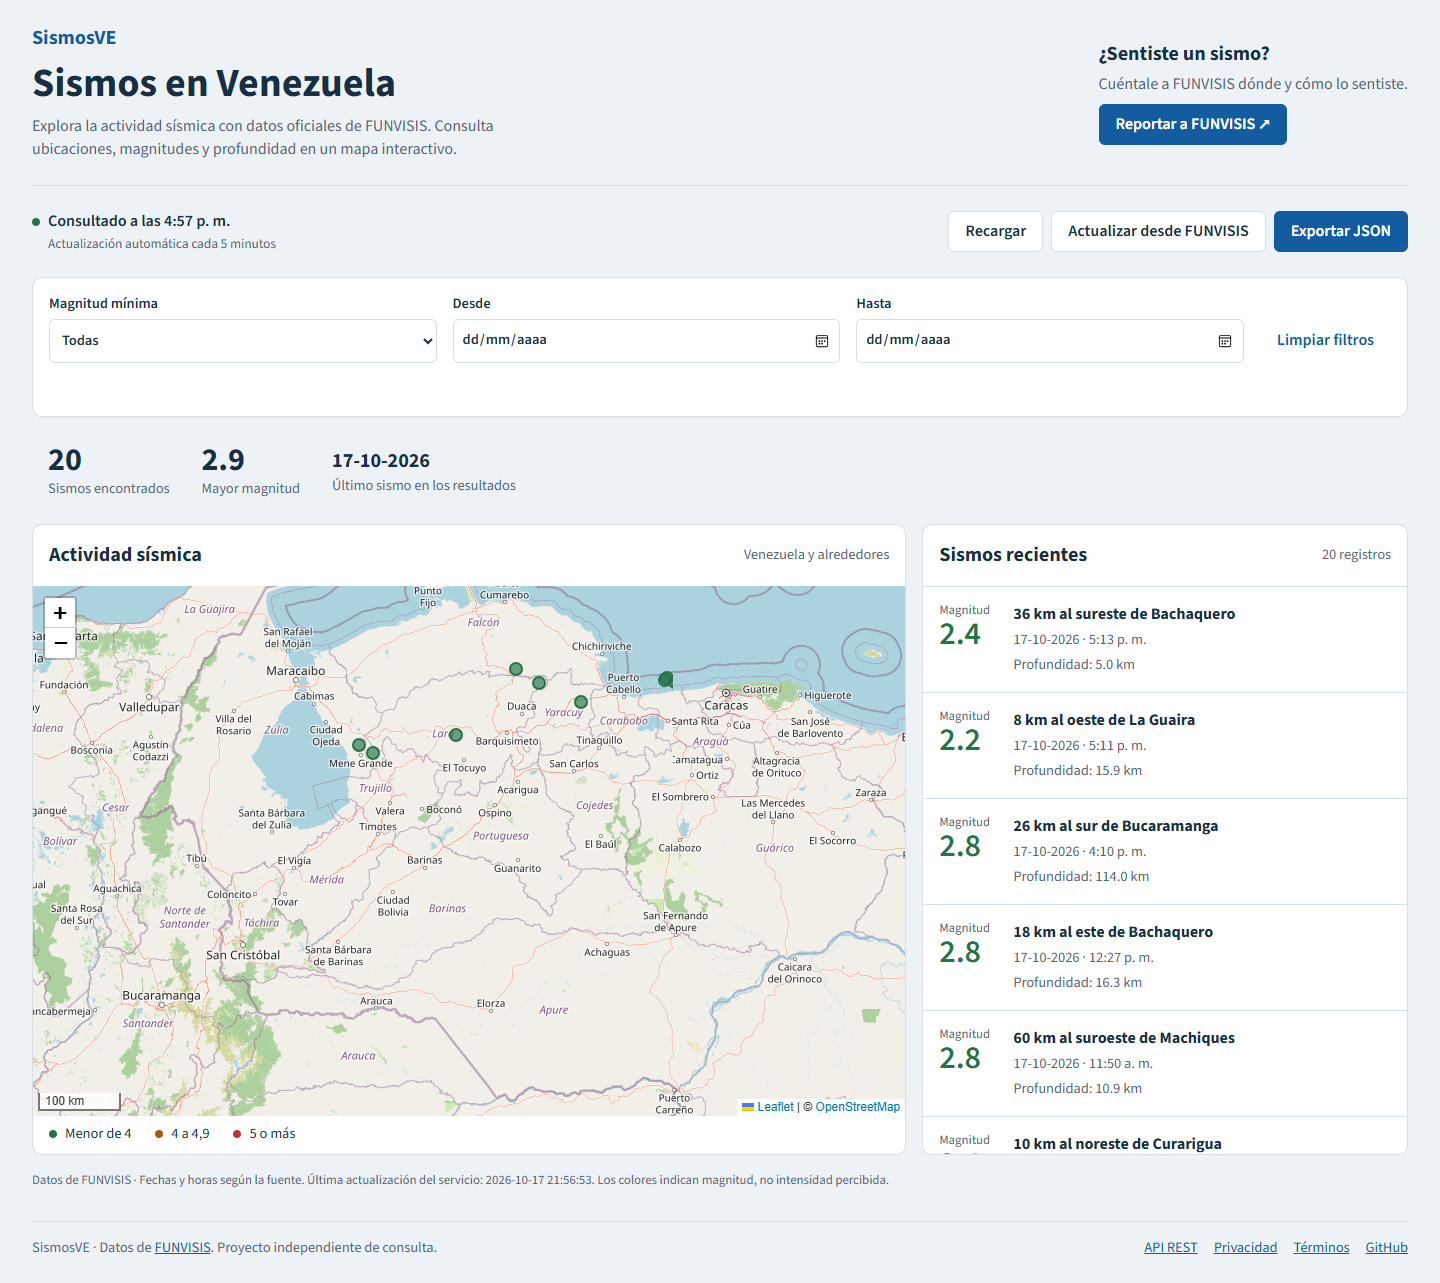
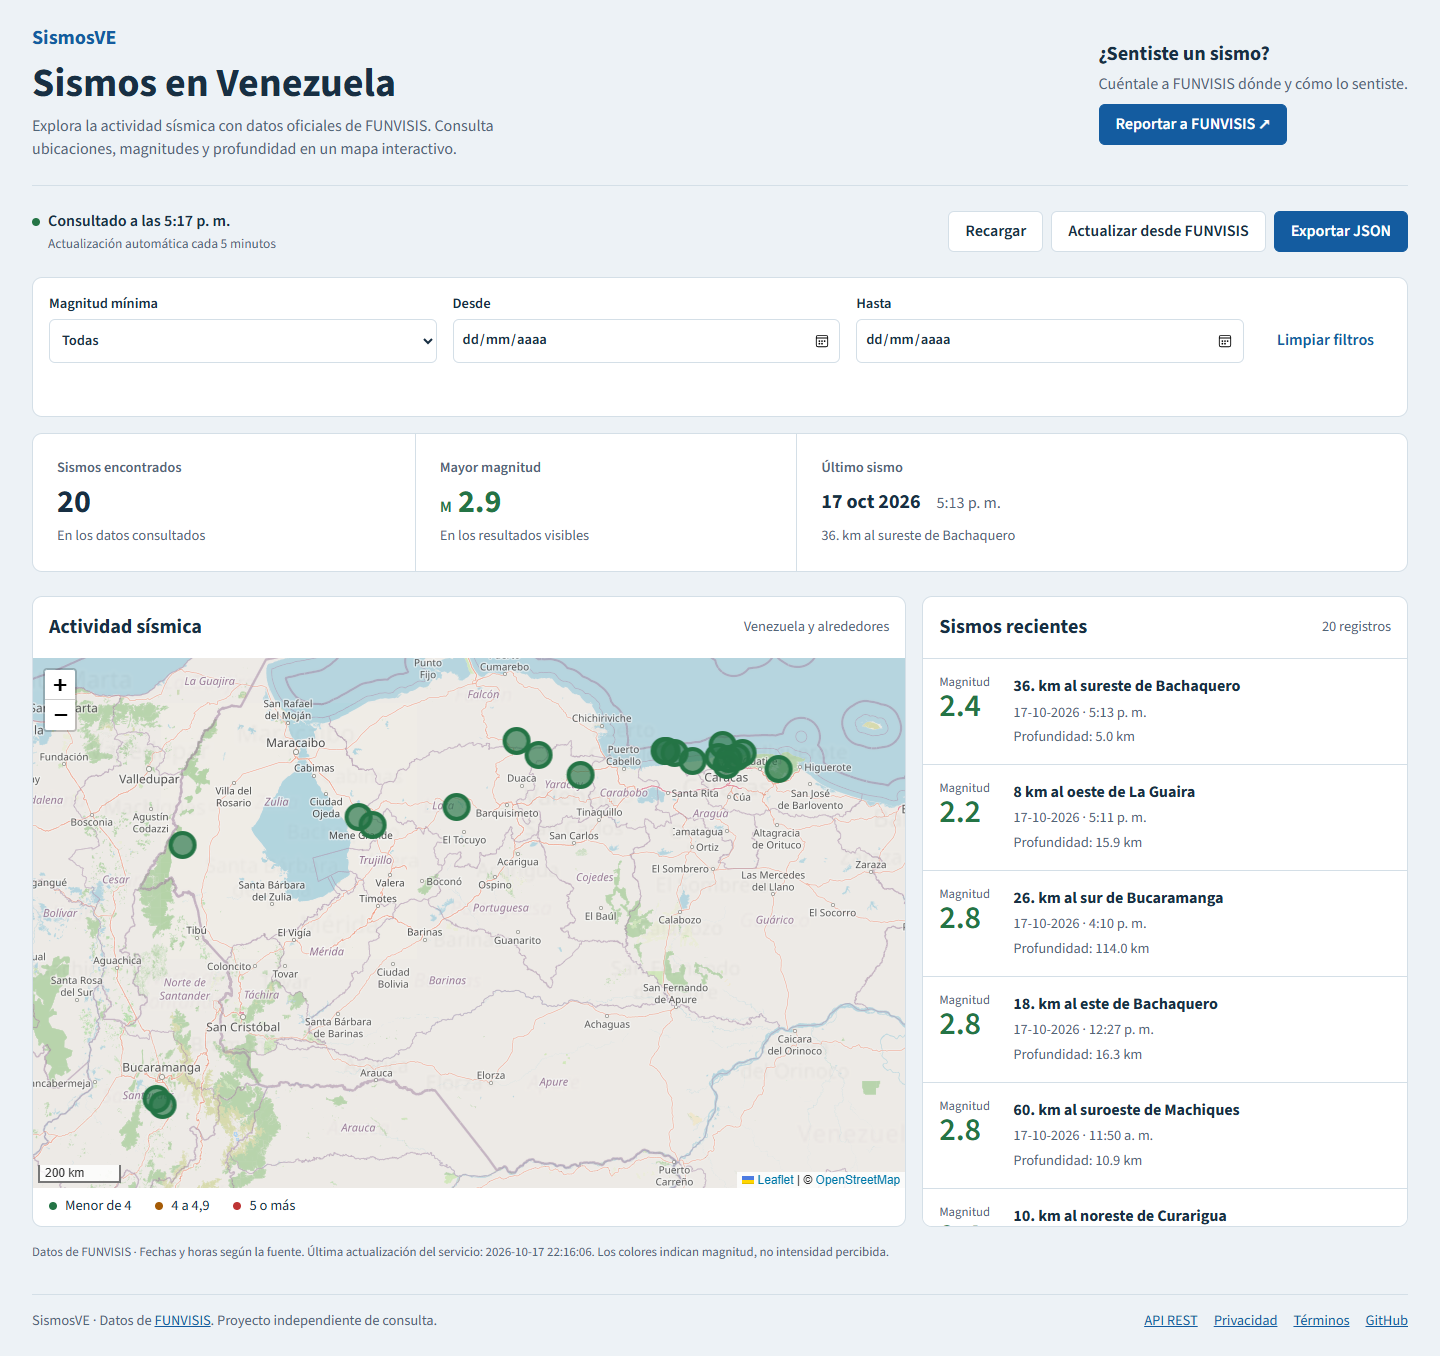
style: clarify results summary and latest earthquake details

diff --git a/frontend/src/styles.css b/frontend/src/styles.css
@@ -36,11 +36,20 @@ input:hover, select:hover { border-color: var(--color-ink-2); }
 input[aria-invalid="true"] { border-color: var(--color-high); background: var(--color-error-bg); }
 .filters button { min-height: 44px; }
 .text-button { border-color: transparent; color: var(--color-accent); }
-.summary { display: flex; gap: var(--space-xl); padding: var(--space-lg) var(--space-md); }
-.summary > div { display: grid; }
-.summary strong { font-size: var(--text-xl); line-height: 1.2; font-variant-numeric: tabular-nums; }
-.summary span { color: var(--color-ink-2); font-size: var(--text-sm); }
-.summary .last-event strong { font-size: var(--text-lg); margin-top: var(--space-sm); }
+.results-summary { margin-block: var(--space-md) var(--space-lg); border: var(--rule-width) solid var(--color-rule); border-radius: var(--radius-panel); background: var(--color-paper); }
+.summary-metrics { display: grid; grid-template-columns: minmax(0, 1fr) minmax(0, 1fr) minmax(0, 1.6fr); margin: 0; }
+.summary-metric { display: grid; grid-template-rows: auto 1fr auto; min-width: 0; gap: var(--space-xs); padding: var(--space-lg); }
+.summary-metric + .summary-metric { border-left: var(--rule-width) solid var(--color-rule); }
+.summary-metric dt { font-size: var(--text-sm); font-weight: 600; color: var(--color-ink-2); }
+.summary-metric dd { margin: 0; }
+.summary-value { font-size: var(--text-xl); font-weight: 700; line-height: 1.25; font-variant-numeric: tabular-nums; }
+.summary-unit { font-size: var(--text-md); font-weight: 600; }
+.summary-context { color: var(--color-ink-2); font-size: var(--text-sm); }
+.summary-date { display: flex; align-items: center; font-size: var(--text-lg); }
+.summary-date time { display: flex; align-items: baseline; flex-wrap: wrap; column-gap: var(--space-md); }
+.summary-hour { font-size: var(--text-md); font-weight: 400; color: var(--color-ink-2); white-space: nowrap; }
+.summary-location { overflow-wrap: anywhere; }
+.visually-hidden { position: absolute; width: 1px; height: 1px; padding: 0; margin: -1px; overflow: hidden; clip-path: inset(50%); white-space: nowrap; border: 0; }
 .workspace { display: grid; grid-template-columns: minmax(0, 1.8fr) minmax(300px, 1fr); gap: var(--space-md); }
 .map-panel, .event-panel { background: var(--color-paper); border: var(--rule-width) solid var(--color-rule); border-radius: var(--radius-panel); overflow: clip; min-width: 0; }
 .map-heading, .list-heading { display: flex; align-items: center; justify-content: space-between; gap: var(--space-sm); padding: var(--space-md); }
@@ -66,5 +75,6 @@ input[aria-invalid="true"] { border-color: var(--color-high); background: var(--
 .site-footer nav { display: flex; flex-wrap: wrap; gap: var(--space-md); }.site-footer a { white-space: nowrap; }
 .skip-link { position: absolute; top: -100px; }.skip-link:focus { top: 0; background: var(--color-paper); padding: var(--space-md); z-index: 2000; }
 @media (max-width: 900px) { .shell { padding: var(--space-md); }.site-header { align-items: start; }.report { max-width: 290px; flex-shrink: 1; }.workspace { grid-template-columns: minmax(0, 1fr); }.map-canvas { height: 420px; }.event-list { height: 460px; } }
-@media (max-width: 600px) { .site-header { flex-direction: column; gap: var(--space-lg); }.report { max-width: none; }.map-heading { align-items: start; flex-direction: column; }.map-canvas { height: 340px; }.summary { gap: var(--space-md); padding-inline: 0; flex-wrap: wrap; }.summary strong { font-size: var(--text-lg); }.actions { width: 100%; }.actions button { font-size: var(--text-sm); padding-inline: var(--space-sm); }.error-banner { align-items: start; flex-direction: column; }.filters label { min-width: 120px; }.filters label:first-child { flex-basis: 100%; } }
+@media (max-width: 768px) { .summary-metric { padding: var(--space-md); }.summary-metrics { grid-template-columns: repeat(2, minmax(0, 1fr)); }.summary-metric.summary-latest { grid-column: 1 / -1; border-left: 0; border-top: var(--rule-width) solid var(--color-rule); } }
+@media (max-width: 600px) { .site-header { flex-direction: column; gap: var(--space-lg); }.report { max-width: none; }.map-heading { align-items: start; flex-direction: column; }.map-canvas { height: 340px; }.actions { width: 100%; }.actions button { font-size: var(--text-sm); padding-inline: var(--space-sm); }.error-banner { align-items: start; flex-direction: column; }.filters label { min-width: 120px; }.filters label:first-child { flex-basis: 100%; } }
 @media (prefers-reduced-motion: reduce) { *, *::before, *::after { scroll-behavior: auto !important; transition: none !important; animation: none !important; } }

diff --git a/frontend/src/Summary.svelte b/frontend/src/Summary.svelte
@@ -1,0 +1,62 @@
+<script lang="ts">
+  import { formatTime, magnitudeClass, type Earthquake } from './data';
+
+  let { events, total, filtered, loading, invalid, failed }: {
+    events: Earthquake[];
+    total: number | null;
+    filtered: boolean;
+    loading: boolean;
+    invalid: boolean;
+    failed: boolean;
+  } = $props();
+
+  const ready = $derived(total !== null && !invalid);
+  const latest = $derived(ready ? events[0] : undefined);
+  const maximum = $derived(events.reduce((max, event) =>
+    Number.isFinite(event.magnitude) ? Math.max(max, event.magnitude) : max, -Infinity));
+  const hasMagnitude = $derived(ready && Number.isFinite(maximum));
+  const unavailable = $derived(invalid ? 'Revisa el rango de fechas' :
+    loading && total === null ? 'Consultando registros…' :
+    total === null ? 'Datos no disponibles' : 'Sin resultados');
+  const countContext = $derived(!ready ? unavailable : failed ? 'Últimos datos disponibles' :
+    filtered ? `de ${total} registros consultados` : 'En los datos consultados');
+
+  function readableDate(date: string) {
+    const [day, month, year] = date.split('-');
+    const months = ['ene', 'feb', 'mar', 'abr', 'may', 'jun', 'jul', 'ago', 'sep', 'oct', 'nov', 'dic'];
+    return months[Number(month) - 1] ? `${Number(day)} ${months[Number(month) - 1]} ${year}` : date;
+  }
+</script>
+
+<section class="results-summary" aria-label="Resumen de resultados" aria-busy={loading}>
+  <dl class="summary-metrics">
+    <div class="summary-metric">
+      <dt>Sismos encontrados</dt>
+      <dd class="summary-value">{ready ? events.length : '—'}</dd>
+      <dd class="summary-context" aria-live="polite" aria-atomic="true">
+        {#if ready}<span class="visually-hidden">{events.length} sismos encontrados. </span>{/if}{countContext}
+      </dd>
+    </div>
+    <div class="summary-metric">
+      <dt>Mayor magnitud</dt>
+      <dd class="summary-value" class:low={hasMagnitude && magnitudeClass(maximum) === 'low'} class:medium={hasMagnitude && magnitudeClass(maximum) === 'medium'} class:high={hasMagnitude && magnitudeClass(maximum) === 'high'}>
+        {#if hasMagnitude}<span class="summary-unit" aria-hidden="true">M</span> {maximum.toFixed(1)}{:else}—{/if}
+      </dd>
+      <dd class="summary-context">{hasMagnitude ? 'En los resultados visibles' : unavailable}</dd>
+    </div>
+    <div class="summary-metric summary-latest">
+      <dt>Último sismo</dt>
+      <dd class="summary-value summary-date">
+        {#if latest}
+          <time datetime={`${latest.date}T${latest.feature.properties.time}`}>
+            <span>{readableDate(latest.feature.properties.date)}</span>
+            <span class="summary-hour">{formatTime(latest.feature.properties.time)}</span>
+          </time>
+        {:else}—{/if}
+      </dd>
+      <dd class="summary-context summary-location" title={latest?.feature.properties.addressFormatted}>
+        {latest ? latest.feature.properties.addressFormatted : unavailable}
+      </dd>
+    </div>
+  </dl>
+</section>

diff --git a/frontend/src/App.svelte b/frontend/src/App.svelte
@@ -3,6 +3,7 @@
   import MapView from './Map.svelte';
   import FiltersView from './Filters.svelte';
   import EventList from './EventList.svelte';
+  import Summary from './Summary.svelte';
   import { normalize, filterEvents, request, type Collection, type Earthquake, type Filters } from './data';
   let events = $state<Earthquake[]>([]);
   let collection = $state<Collection | null>(null);
@@ -15,7 +16,6 @@
   let controller: AbortController | undefined;
   const invalid = $derived(Boolean(filters.start && filters.end && filters.start > filters.end));
   const visible = $derived(invalid ? [] : filterEvents(events, filters));
-  const maximum = $derived(visible.reduce((max, e) => Number.isFinite(e.magnitude) ? Math.max(max, e.magnitude) : max, -Infinity));
   $effect(() => { if (selected && !visible.some(e => e.id === selected)) selected = null; });
   async function load(force = false) {
     if (loading) return;
@@ -57,10 +57,8 @@
 </div>
 {#if error}<div class="error-banner" role="alert"><p>{error} {collection ? 'Se conservan los últimos datos consultados.' : 'Comprueba tu conexión e inténtalo de nuevo.'}</p><button disabled={loading} onclick={() => load()}>Reintentar</button></div>{/if}
 <FiltersView {filters} {invalid}/>
-<div class="summary" aria-label="Resumen de resultados">
-  <div><strong>{visible.length}</strong><span>Sismos encontrados</span></div>
-  <div><strong>{maximum > -Infinity ? maximum.toFixed(1) : '—'}</strong><span>Mayor magnitud</span></div>
-  <div class="last-event"><strong>{visible[0]?.feature.properties.date ?? '—'}</strong><span>Último sismo en los resultados</span></div>
-</div>
+<Summary events={visible} total={collection ? events.length : null}
+  filtered={Boolean(filters.magnitude || filters.start || filters.end)}
+  {loading} {invalid} failed={Boolean(error)}/>
 <div class="workspace" aria-busy={loading}><MapView events={visible} {selected} onselect={id => selected = id}/><EventList events={visible} {selected} onselect={id => selected = id}/></div>
 <p class="source-note">Datos de FUNVISIS · Fechas y horas según la fuente. Última actualización del servicio: {updated || 'Consultando…'}. Los colores indican magnitud, no intensidad percibida.</p>

diff --git a/docs/UI_REFACTOR.md b/docs/UI_REFACTOR.md
@@ -66,3 +66,26 @@ las seis pruebas existentes de API/SEO también pasan.
 
 ![Privacidad en escritorio](ui-review/privacy-desktop.png)
 ![Términos en móvil](ui-review/terms-mobile.png)
+
+
+## Resumen de resultados
+
+El resumen agrupa cantidad, mayor magnitud y último evento en una franja con
+separadores. Las etiquetas preceden a los valores; la magnitud usa el mismo
+código de color del mapa. El último sismo incluye fecha legible, hora de la
+fuente y ubicación. En móvil ocupa una fila completa bajo los dos números.
+Al filtrar se indica cuántos registros se muestran respecto del total consultado.
+
+Los estados de carga inicial, error sin datos y fechas inválidas muestran un
+guion en vez de un cero ficticio. Una búsqueda vacía muestra cero registros y
+ninguna magnitud o fecha. Si falla la recarga, se conservan los últimos valores.
+Los cambios de cantidad se anuncian de forma accesible sin mover el foco.
+
+Validación: Svelte check, build y pruebas existentes correctos; Playwright
+verifica los valores con datos controlados, fecha/hora sin conversión de zona,
+filtros combinados, ausencia de resultados, rango inválido, carga inicial y
+fallos con/sin datos previos. Revisado en 320, 375, 414, 768, 1280 y 1440 px sin
+desbordamiento. Docker reconstruido y dejado en ejecución.
+
+![Resumen en escritorio](ui-review/summary-desktop.png)
+![Resumen en móvil](ui-review/summary-mobile.png)

diff --git a/design.md b/design.md
@@ -12,6 +12,12 @@ lateral y columna de lectura de hasta 72 caracteres. En móvil el índice se
 pliega con un control nativo. Mantienen el mismo tema y tipografía del monitor,
 sin cargar JavaScript. La impresión oculta la navegación.
 
+El resumen de resultados es una franja única con separadores y etiquetas sobre
+los valores. Cantidad y magnitud comparten escala; el último evento muestra
+fecha legible, hora de la fuente y ubicación. En móvil los dos números comparten
+una fila y el último evento ocupa la siguiente. Los datos se derivan de los
+resultados filtrados; antes de cargarlos se muestra un guion, nunca un cero ficticio.
+
 ## Tokens y tipografía
 `tokens.css` es la fuente de colores, espacios, tamaños y radios del frontend.
 Source Sans 3 local, pesos 400, 600 y 700; números tabulares para magnitudes.
